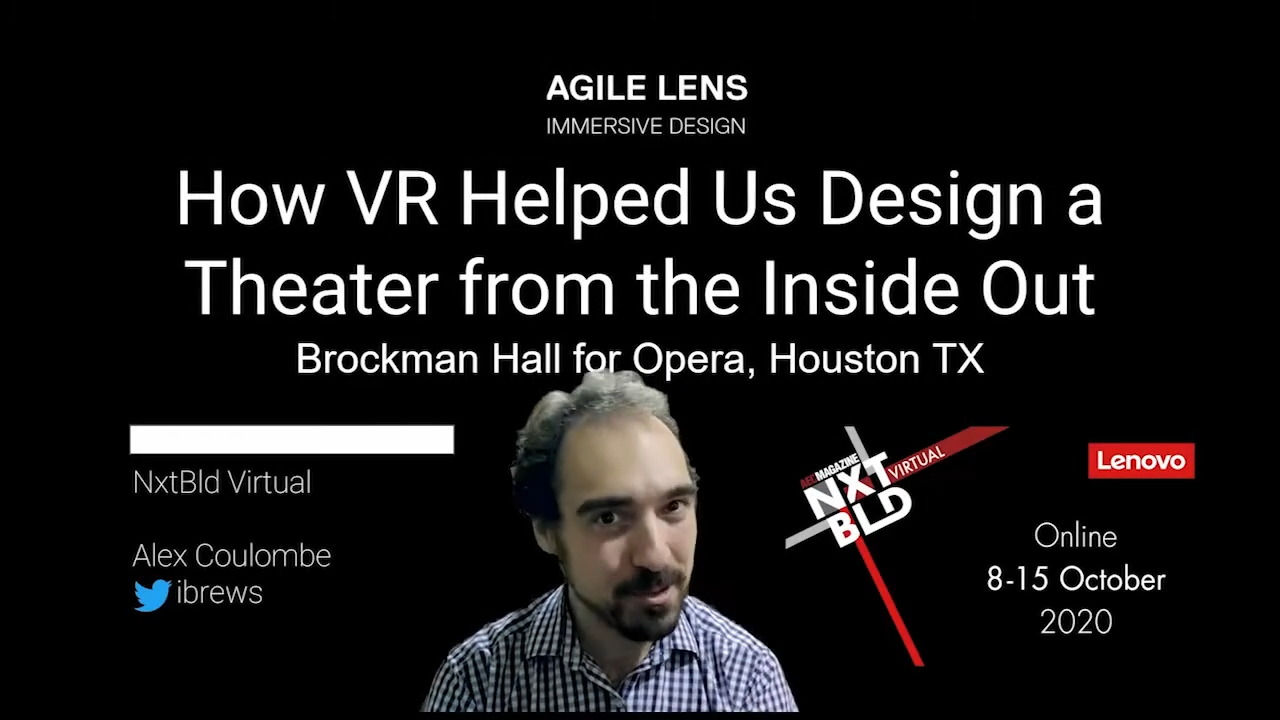
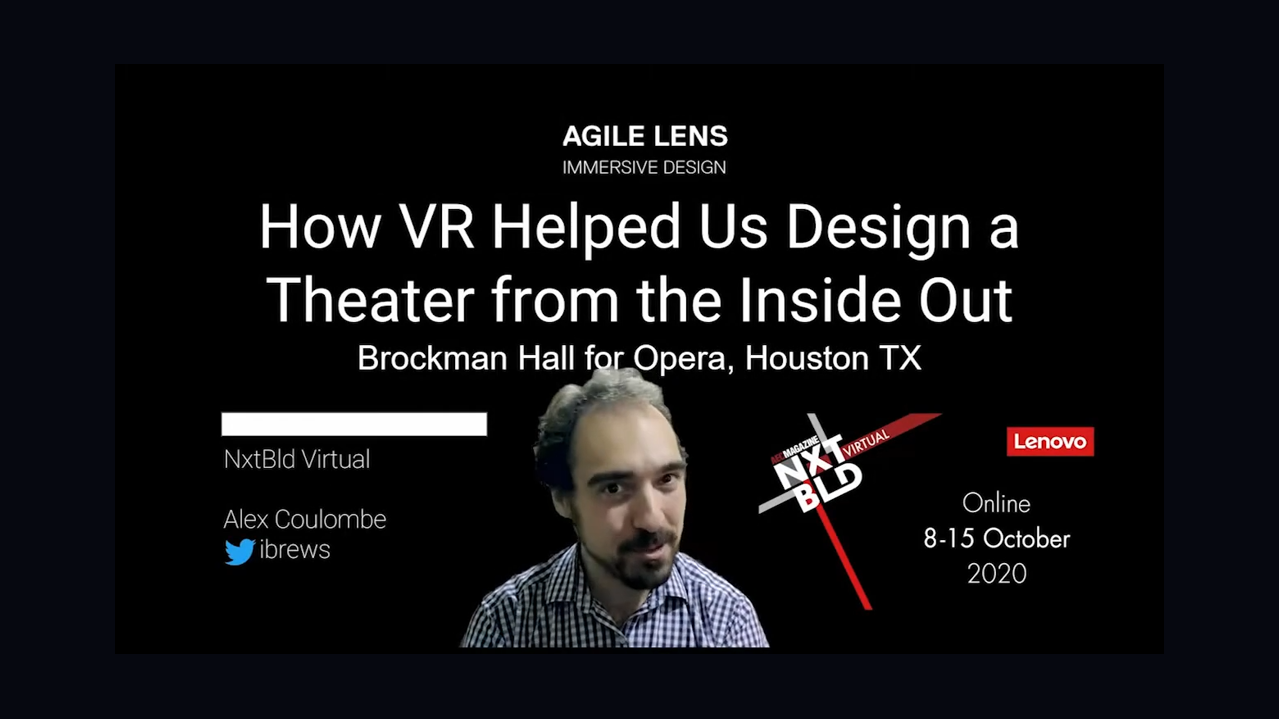
feat: sprite tweaks, trilogy reframe, speaker notes, pattern-cycle arrow fix
Sprites (intro-hxr + close):
- buildAvatar now takes optional pantsColor (+ matched crease shade) and a 'vneck' flag
- Alex's slacks → off-white (#eae3d0)
- Jun's dress → small white v-neck triangle at the collar

Trilogy slide (#5):
- trilogy-talk2.png ('Theater from the Inside Out', NXT BLD I 2020) rescaled to 82% + padded with deck-bg #060810 so the full title sits with breathing room — now reads cleanly inside the card and visually matches the wider auditorium framing on talk1

Speaker notes:
- slide 4 (Agile Lens orbit): 'Our whole studio was built on this cycle of upskilling...'
- slide 8 (sg-fragments 'The filenames tell the story.'): 'This is the good stuff. This is where you dig in to all the legos and find the gems...'
- Fixed getSlideNotes: it was counting from lessonIdxs[si]+1, but this deck has no lesson slides (lessonIdxs is empty), so the loop never ran and every case got cases[0].notes. Now counts case slides by dataset.section, which works with or without lessons.

Pattern-cycle (#9):
- Rerouted the Clarity → New client request #2 arrow. Was M860,126 Q860,200 270,270 with a -22/+16 transform — that curve dipped into the 'Temporary feature in tool' node. New cubic M860,126 C860,210 270,160 270,270 stays in the y:126-234 corridor between the two rows and lands cleanly on the right edge of #2.

Changed region(s): [[0.0915, 0.0918, 0.8843, 1.0], [0.5794, 0.5508, 0.9453, 0.8873], [0.7013, 0.8567, 0.7318, 0.9179]]

diff --git a/index.html b/index.html
@@ -72,11 +72,11 @@ const SECTIONS = [
         subUE5:'Authorized UE5 instructors with Training Center.\nOrganizers of Unreal NYC and frequent Unreal Fest speakers.',
         duo:{
           alex:{ name:'Alex Coulombe', role:'CEO',
-                 sprite:{ withBeard:true, withGlasses:false } },
+                 sprite:{ withBeard:true, withGlasses:false, pantsColor:'#eae3d0' } },
           jun: { name:'Yu-Jun Yeh',    role:'Lead Creative Technologist',
                  sprite:{ withBeard:false, withGlasses:false, longHair:true, noBrows:true,
                           hairColor:'#1a1a1a', hairDark:'#0a0a0a', hairLight:'#3a3a3a', hairShadow:'#000',
-                          shirtColor:'#1a1a1a', shirtDark:'#0a0a0a', withDress:true } }
+                          shirtColor:'#1a1a1a', shirtDark:'#0a0a0a', withDress:true, vneck:true } }
         },
         stats:[
           { n:'16',  l:'Years in XR' },
@@ -86,7 +86,8 @@ const SECTIONS = [
         ],
         deckTarget:'p16+p17 (slide 5 folded)' },
       // Agile Lens orbit \u2014 clients revolving around the studio name (ported from FMX slide 11)
-      { layout:'orbit', title:'Agile Lens', deckTarget:'orbit' },
+      { layout:'orbit', title:'Agile Lens', deckTarget:'orbit',
+        notes:'Our whole studio was built on this cycle of upskilling and building on top of and leap frogging previous workflows so we could approach each new project with fresh insight and a solid foundation.' },
       // slide 6 \u2014 Trilogy callback. NOTE: QR codes for the two prior NXT BLD talks.
       // Thumbnails are PPTX-embedded screenshots from the actual talks.
       { layout:'trilogy', title:'NXT BLD: Third in a Trilogy',
@@ -131,6 +132,7 @@ const SECTIONS = [
       { layout:'sg-fragments', title:'The filenames tell the story.',
         fragments:['\u201ctemp\u201d','\u201cv12_finalFINAL\u201d','\u201c0925_Screenshot_D\u201d','\u201cdonotdelete\u201d'],
         punchline:'Every studio has these.',
+        notes:'This is the good stuff. This is where you dig in to all the legos and find the gems that were created in a panic that you didn’t have a chance to really consider the utility of.',
         deckTarget:'p19' },
     ] },
 
@@ -1486,7 +1488,7 @@ SECTIONS.forEach((sec,si)=>{
         <g class="pat-node pat-node-final" transform="translate(620,440)"><rect x="-200" y="-42" width="400" height="84" rx="16" fill="rgba(244,63,94,.10)" stroke="rgba(244,63,94,.85)" stroke-width="2"/><text text-anchor="middle" y="-6" fill="#f0f4ff" font-size="18" font-weight="700">Whole new tool</text><text text-anchor="middle" y="20" fill="rgba(240,244,255,.7)" font-size="13">→ THIS is the productization moment</text></g>
         <path class="pat-flow" d="M250,90 L370,90" stroke="rgba(167,139,250,.55)" stroke-width="1.8" fill="none" marker-end="url(#pat-arr)" stroke-dasharray="8 6"/>
         <path class="pat-flow" d="M630,90 L760,90" stroke="rgba(167,139,250,.55)" stroke-width="1.8" fill="none" marker-end="url(#pat-arr)" stroke-dasharray="8 6"/>
-        <path class="pat-flow pat-flow-dash" style="transform:translate(-22px,16px)" d="M860,126 Q860,200 270,270" stroke="rgba(167,139,250,.4)" stroke-width="1.6" fill="none" marker-end="url(#pat-arr)" stroke-dasharray="6 4"/>
+        <path class="pat-flow pat-flow-dash" d="M860,126 C860,210 270,160 270,270" stroke="rgba(167,139,250,.4)" stroke-width="1.6" fill="none" marker-end="url(#pat-arr)" stroke-dasharray="6 4"/>
         <path class="pat-flow" d="M270,270 L350,270" stroke="rgba(167,139,250,.55)" stroke-width="1.8" fill="none" marker-end="url(#pat-arr)" stroke-dasharray="8 6"/>
         <path class="pat-flow pat-flow-dash" d="M500,306 Q500,380 270,440" stroke="rgba(167,139,250,.4)" stroke-width="1.6" fill="none" marker-end="url(#pat-arr)" stroke-dasharray="6 4"/>
         <path class="pat-flow" d="M270,440 L420,440" stroke="rgba(244,63,94,.7)" stroke-width="2.2" fill="none" marker-end="url(#pat-arr)" stroke-dasharray="8 6"/>
@@ -1943,8 +1945,8 @@ setTimeout(()=>{(function(){
   const alexSvg=cls.querySelector('.close-sprite-alex');
   const junSvg=cls.querySelector('.close-sprite-jun');
   if(!alexSvg||!junSvg)return;
-  const alexCfg={withBeard:true,withGlasses:false};
-  const junCfg={withBeard:false,withGlasses:false,longHair:true,noBrows:true,hairColor:'#1a1a1a',hairDark:'#0a0a0a',hairLight:'#3a3a3a',hairShadow:'#000',shirtColor:'#1a1a1a',shirtDark:'#0a0a0a',withDress:true};
+  const alexCfg={withBeard:true,withGlasses:false,pantsColor:'#eae3d0'};
+  const junCfg={withBeard:false,withGlasses:false,longHair:true,noBrows:true,hairColor:'#1a1a1a',hairDark:'#0a0a0a',hairLight:'#3a3a3a',hairShadow:'#000',shirtColor:'#1a1a1a',shirtDark:'#0a0a0a',withDress:true,vneck:true};
   buildAvatar(alexSvg,alexCfg);
   buildAvatar(junSvg,junCfg);
   const junBody=junSvg.querySelector('.av-body');if(junBody)paintLongHair(junBody,junCfg);
@@ -1964,7 +1966,7 @@ function buildAvatar(parent,opts={}){
   const scale=opts.scale||1;const withBeard=!!opts.withBeard;const withGlasses=!!opts.withGlasses;
   const root=svgE('g',{class:'avatar',...(opts.id?{id:opts.id}:{})});root.style.shapeRendering='crispEdges';
   if(scale!==1)root.setAttribute('transform',`scale(${scale})`);parent.appendChild(root);
-  const SKIN=opts.skinColor||'#f2c79b',SKIN_DARK='#d9a77a',HAIR_LIGHT=opts.hairLight||'#a8602f',HAIR=opts.hairColor||'#8b4a2a',HAIR_DARK=opts.hairDark||'#5e2f1a',HAIR_SHADOW=opts.hairShadow||'#3a1c08',BEARD=opts.beardColor||'#6e3a1e',BEARD_LIGHT=opts.beardLight||'#8a4f2a',SHIRT=opts.shirtColor||'#6a8fd6',SHIRT_DARK=opts.shirtDark||'#4a6fb8',PANTS='#3f3025',BOOTS='#1f150c',EYE='#1a1a26',FRAME='#1a1520';
+  const SKIN=opts.skinColor||'#f2c79b',SKIN_DARK='#d9a77a',HAIR_LIGHT=opts.hairLight||'#a8602f',HAIR=opts.hairColor||'#8b4a2a',HAIR_DARK=opts.hairDark||'#5e2f1a',HAIR_SHADOW=opts.hairShadow||'#3a1c08',BEARD=opts.beardColor||'#6e3a1e',BEARD_LIGHT=opts.beardLight||'#8a4f2a',SHIRT=opts.shirtColor||'#6a8fd6',SHIRT_DARK=opts.shirtDark||'#4a6fb8',PANTS=opts.pantsColor||'#3f3025',PANTS_CREASE=opts.pantsCrease||(opts.pantsColor?'#bdb39d':'#2a1f18'),BOOTS='#1f150c',EYE='#1a1a26',FRAME='#1a1520';
   const px=(g,x,y,w,h,fill)=>g.appendChild(svgE('rect',{x,y,width:w,height:h,fill}));
   const body=svgE('g',{class:'av-body'});
   px(body,-12,-34,24,22,SKIN);px(body,-12,-16,24,4,SKIN_DARK);
@@ -1990,7 +1992,9 @@ function buildAvatar(parent,opts={}){
   }
   px(body,-4,-12,8,3,SKIN_DARK);
   px(body,-12,-9,24,18,SHIRT);px(body,-12,-9,24,3,SHIRT_DARK);px(body,-12,6,24,3,SHIRT_DARK);
-  if(opts.withDress){px(body,-13,9,26,10,SHIRT);px(body,-15,16,30,7,SHIRT_DARK);}else{px(body,-12,9,12,14,PANTS);px(body,0,9,12,14,PANTS);px(body,-2,9,4,14,'#2a1f18');}
+  if(opts.withDress){px(body,-13,9,26,10,SHIRT);px(body,-15,16,30,7,SHIRT_DARK);}else{px(body,-12,9,12,14,PANTS);px(body,0,9,12,14,PANTS);px(body,-2,9,4,14,PANTS_CREASE);}
+  // V-neck collar — small triangle inset on the shirt/dress top
+  if(opts.vneck){const VN=opts.vneckColor||'#f5f5f5';px(body,-3,-9,6,1,VN);px(body,-2,-8,4,1,VN);px(body,-1,-7,2,1,VN);}
   px(body,-12,23,12,5,BOOTS);px(body,0,23,12,5,BOOTS);
   root.appendChild(body);
   // Arms (down at the sides) — shirt sleeve + skin hand on each side
@@ -2940,8 +2944,8 @@ function getSlideNotes(idx){
   const ty=sl.dataset.type,si=+sl.dataset.section;
   if(ty==='lesson'&&SECTIONS[si])return SECTIONS[si].lesson.notes||'';
   if(ty==='case'&&SECTIONS[si]){
-    // figure out which case within the section
-    let caseIdx=0;for(let j=lessonIdxs[si]+1;j<idx;j++){if(allSlides[j]?.dataset.type==='case')caseIdx++;}
+    // Count case slides of this section that come before idx (works with or without lesson slides).
+    let caseIdx=0;for(let j=0;j<idx;j++){const s=allSlides[j];if(s&&s.dataset.type==='case'&&s.dataset.section===String(si))caseIdx++;}
     return SECTIONS[si].cases[caseIdx]?.notes||'';
   }
   if(ty==='bonus')return'The secret 5th rung is the one already in your pocket. You too have a productizable tool your team has been using and honing - just look at the systems you\'re implementing and see what can be carved out and polished up';
